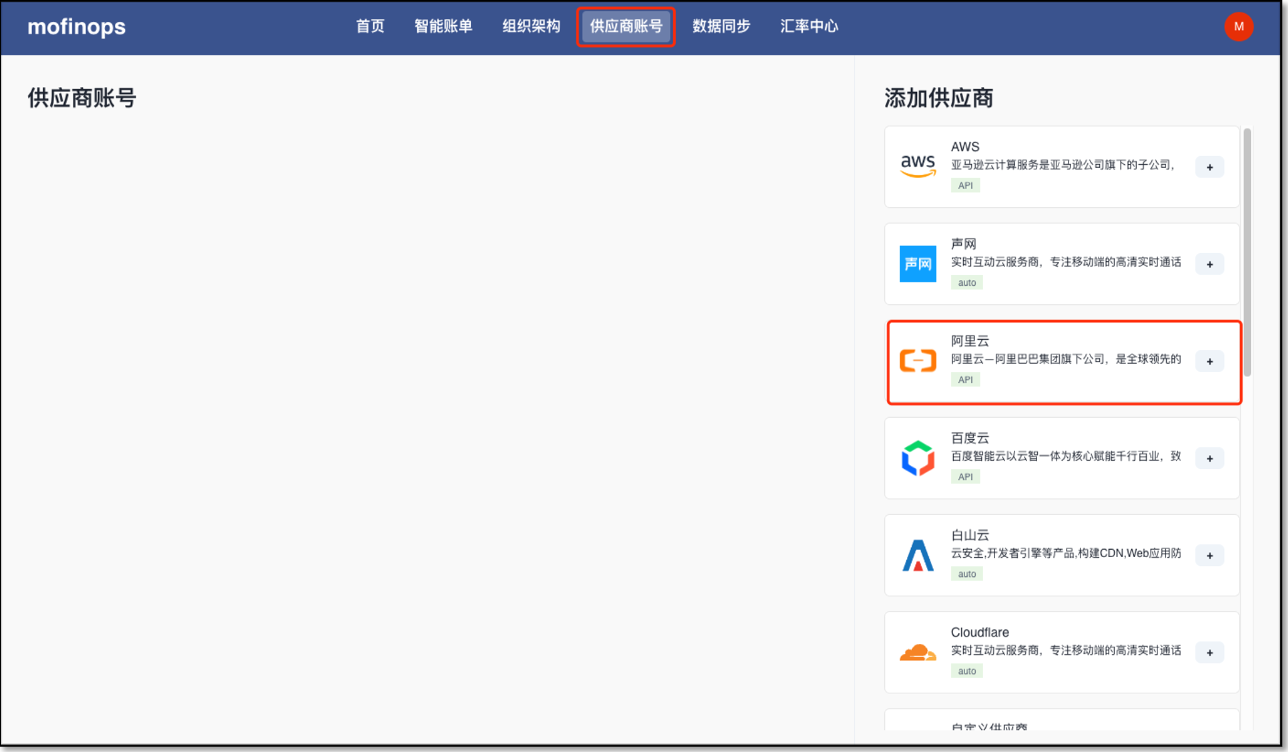
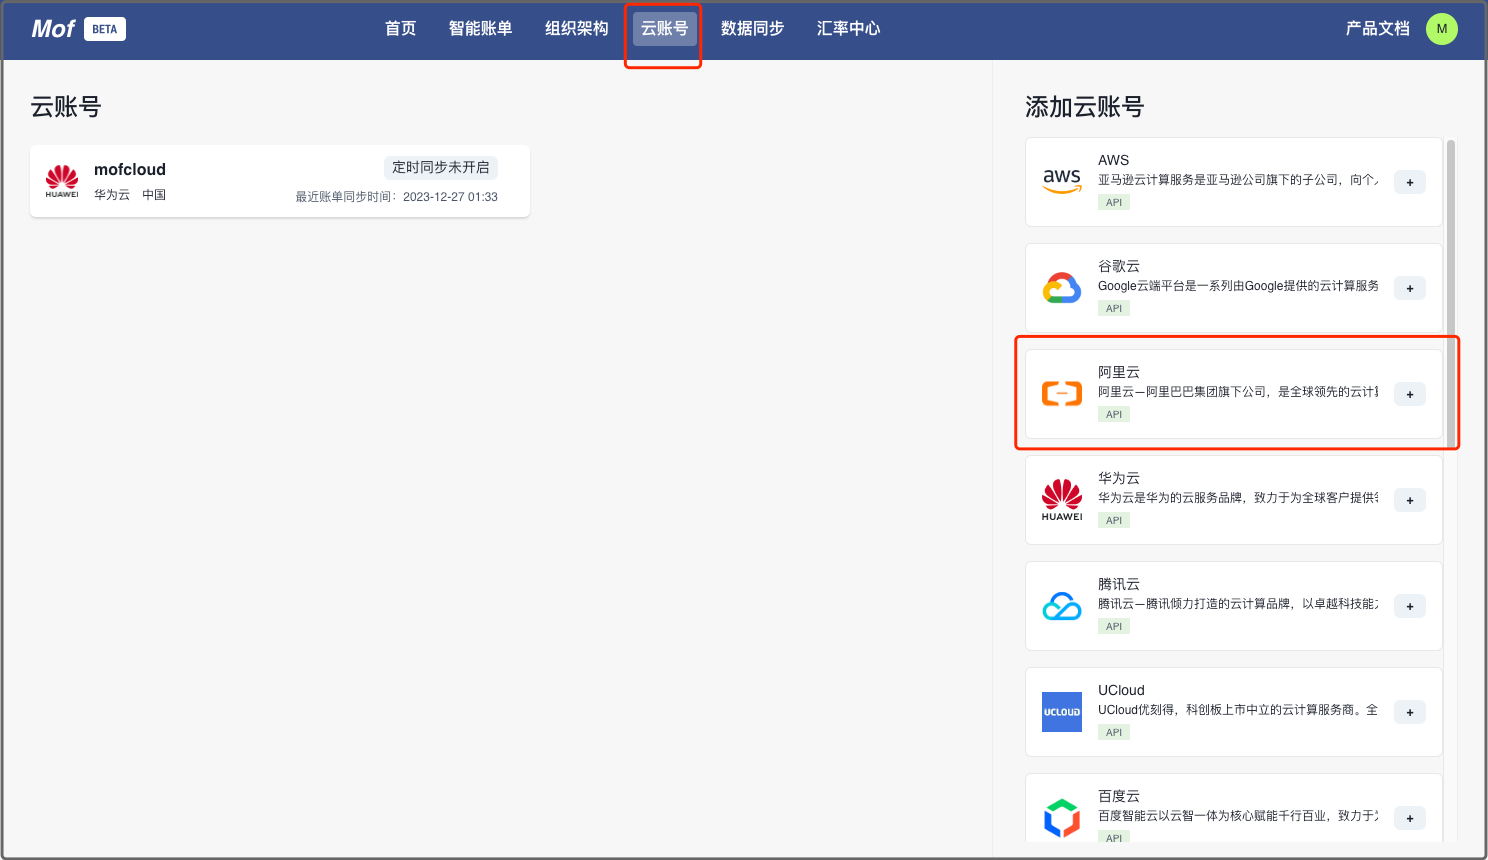
Update orgs docs

diff --git a/docs/user-guide/org/index.zh.md b/docs/user-guide/org/index.zh.md
@@ -1,7 +1,7 @@
 用户更关心**团队**的云成本分析，因此，Mof 引入了组织架构的概念，用户可以把云账号账单**按照比例分摊**到组织架构中。
 
 ## 概念
-![](img/org-overview.png)
+![](img/org-arch.zh.png)
 
 | 概念 | 描述                    | 
 | --- |-----------------------|
@@ -14,12 +14,15 @@
 ## 创建组织
 用户可以创建多个组织架构。
 
-![](img/create-org.png)
+![](img/create-org.zh.png)
 
 ## 创建部门
 用户可以创建多个嵌套的部门，可以重名，但是不建议。
 
-![](img/create-dep.png)
+![](img/create-dep.zh.png)
+
+## 添加月份
+![](img/create-month.zh.png)
 
 ## 绑定云账号
 > ⚠ 请注意！
@@ -27,33 +30,29 @@
 
 用户可以绑定多个云账号，并且选择一个分摊纬度。
 
-![](img/bind-account.png)
+![](img/bind-account.zh.png)
 
 ## 分摊到部门
 这个例子中，我们按照地域分类，然后把两个地域分别分摊到**团队A**和**团队B**中。
 
-![](img/add-mapping.png)
+- 华北-北京一 分摊到团队A
 
-- 华北-北京1 分摊到团队A
+![](img/bind-1.zh.png)
 
-![](img/bind-1.png)
+- 华北-北京四 分摊到团队B
 
-
-- 华北-北京4 分摊到团队B
-
-![](img/bind-2.png)
 
 - 保存账单规则
 
-![](img/save-rule.png)
+![](img/save-rule.zh.png)
 
 ## 查看未分配
 保存之后，我们可以看到未匹配的纬度 & 百分比。
 
-![](img/remaining-mapping.png)
+![](img/view-rule.zh.png)
 
 ## 查看账单
 **智能账单**页面中，可以查看组织架构纬度账单
 
-![](img/bill.png)
+![](img/bill.zh.png)
 

diff --git a/docs/getting-started/index.zh.md b/docs/getting-started/index.zh.md
@@ -1,7 +1,7 @@
 ## 添加云账号
 ![Image title](img/zh/add-account-choose.png)
 
-- 选择 **供应商账号** -> **添加供应商** -> **阿里云**
+- 选择 **云账号** -> **添加供应商** -> **阿里云**
 
 - 填写相关信息
     - **基本信息**：账号名称用于展示，可以重名，建议使用不同的名称
